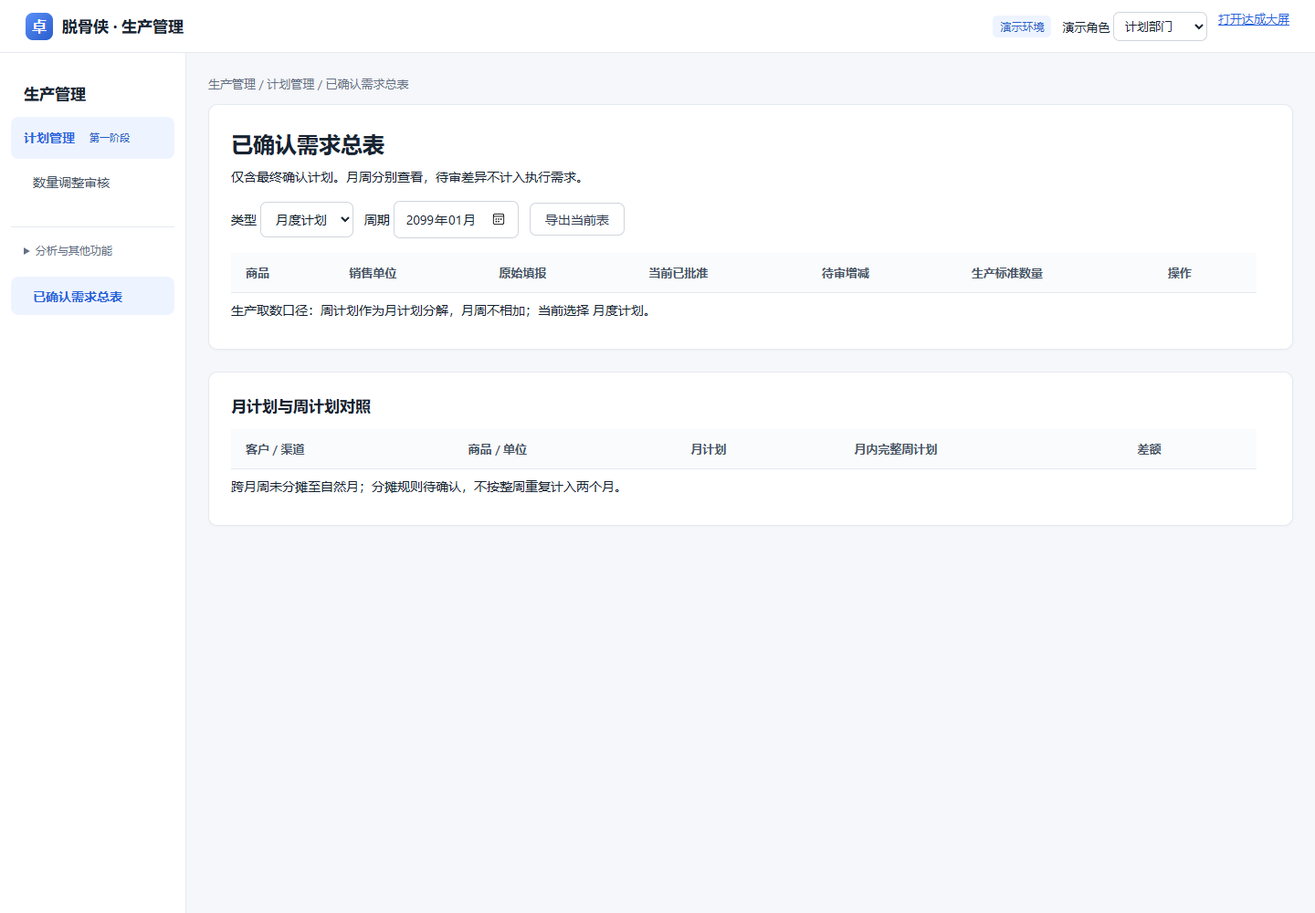
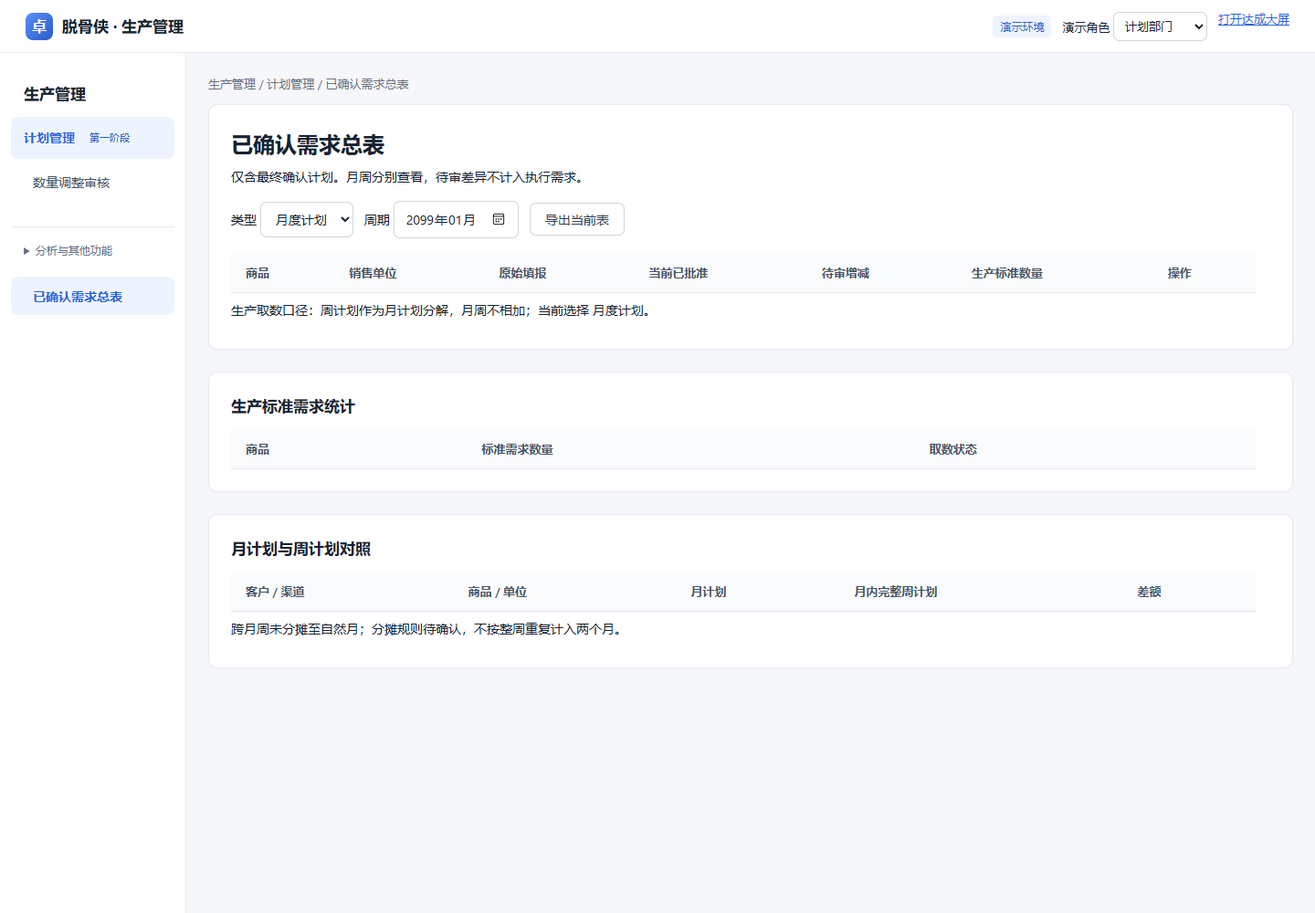
Auto sync 2026-10-12 14:07:03

diff --git a/09-设计与原型/销售计划管理/计划业务补充.js b/09-设计与原型/销售计划管理/计划业务补充.js
@@ -4,8 +4,9 @@
  const opt=(xs,val)=>xs.map(x=>`<option value="${E(x)}" ${x===val?'selected':''}>${E(x)}</option>`).join('');
  const today=()=>new Intl.DateTimeFormat('sv-SE',{timeZone:'Asia/Shanghai'}).format(new Date());
  function initialize(d){d.businessSettings??={relation:'pending',productionBasis:'month',adjustPolicy:'pending',reminderHours:24};d.periodWindows??={};d.noDemand??=[];d.notifications??=[];d.access??={};d.unitMappings??={};d.businessHistory??=[];}
+ function canView(d,role,p){const s=d.access?.[role];if(!s?.enabled)return true;return p.business==='online'?s.channels.includes(p.channel):s.centers.includes(p.center)&&s.provinces.includes(p.province)&&s.customers.includes(p.customer);}
  const snapshot=p=>Object.fromEntries(['center','area','province','customer','channel','business','kind','start','end','product','qty','unit','owner','note'].map(k=>[k,p[k]??'']));
- function periodState(d,kind,start){const w=d.periodWindows?.[kind+':'+start];if(!w)return '本期填报窗口待配置';return SalesPlan.windowState({...d,windows:{...d.windows,[kind]:w}},kind);}
+ function periodState(d,kind,start){const w=d.periodWindows?.[kind+':'+start];if(!w)return '本期填报窗口待配置';const n=Date.now(),open=new Date(w.open).getTime(),close=new Date(w.close).getTime();return n<open?'未开始':n>close?'已截止':close-n<=d.businessSettings.reminderHours*3600000?'即将截止':'可填报';}
  function fillGuard(d,role,p){initialize(d);const scope=d.access[role];if(scope?.enabled){if(p.business==='offline'&&(!scope.provinces.includes(p.province)||!scope.centers.includes(p.center)||!scope.customers.includes(p.customer)))return '当前演示人员不在该中心、省区或客户授权范围，请联系规则管理员。';if(p.business==='online'&&!scope.channels.includes(p.channel))return '该渠道不在授权范围。';}return '';}
  function floor(d,p){return Math.max(0,SalesPlan.linked(d,p).reduce((s,o)=>s+(o.status==='取消'?0:o.qty-o.returned),0));}
  function adjustGuard(d,p,after){initialize(d);const policy=d.businessSettings.adjustPolicy;if(policy==='pending')return '普通数量调整时限尚未配置，请由规则管理员确认规则后再申请。';if(p.archived)return '已归档计划不能调整。';if(policy==='beforeStart'&&p.start<=today())return '此规则仅允许执行开始前调整。';if(policy==='untilLocked'&&p.productionLocked)return '计划已锁定供生产使用，不能普通调整；请联系计划部门处理。';if(after<floor(d,p))return '调整后数量不能低于已执行净数量 '+floor(d,p)+' '+p.unit+'。';return '';}
@@ -17,7 +18,8 @@
  function parseLine(s){const out=[];let v='',quoted=false;for(let i=0;i<s.length;i++){const c=s[i];if(c==='"'){if(quoted&&s[i+1]==='"'){v+='"';i++;}else quoted=!quoted;}else if(!quoted&&(c===','||c==='\t')){out.push(v.trim());v='';}else v+=c;}if(quoted)throw Error('quote');out.push(v.trim());return out;}
  function reviewQuantity(a,change){const d=a.data(),p=d.plans.find(p=>p.id===change.plan);if(a.role()!=='计划部门'||change.status!=='待计划部门审核')return;const pending=d.adjustments.filter(v=>v.plan===p.id&&['待OA审批','待计划部门审核'].includes(v.status));a.modal('数量调整审核',`<div class="grid"><p>客户 / 渠道：${E(p.customer||p.channel)}</p><p>商品：${E(d.products.find(v=>v.id===p.product)?.name||p.product)}</p><p>组织：${E(p.center)} / ${E(p.area)} / ${E(p.province)}</p><p>周期：${p.start} 至 ${p.end}</p></div><div class="notice">原始填报 ${p.versions[0].qty} ${p.unit} · 已批准执行 ${p.qty} ${p.unit} · 本次待审 ${change.after} ${p.unit}<br>变化 ${change.after-change.before} ${p.unit}（${change.before?((change.after-change.before)/change.before*100).toFixed(1)+'%':'原数量为零'}） · 已执行净量 ${floor(d,p)} ${p.unit} · 待审申请 ${pending.length} 条</div><p>调整原因：${E(change.reason)}</p><p>附件：${E(change.attachment||'无附件')}</p><p>生产锁定：${p.productionLocked?'已锁定':'未锁定'}；库存与产能数据待接入，不据此自动判定可生产。</p><label class="field">审核意见<textarea id="opinion"></textarea></label><div class="error" id="quantityError" role="alert"></div><div class="actions"><button id="reject">驳回</button><button id="approve" class="primary">通过</button></div>`);const finish=pass=>{const opinion=document.getElementById('opinion').value.trim(),error=!opinion?'请填写审核意见。':pass?(p.version!==change.base?'原版本已变化，请重新申请。':adjustGuard(d,p,change.after)):'';document.getElementById('quantityError').textContent=error;if(error)return;const backup=structuredClone(d);change.status=pass?'已通过':'已驳回';change.opinion=opinion;change.reviewBy=a.role();change.reviewAt=new Date().toISOString();if(pass){const prior=p.versions.at(-1);prior.content??=snapshot(p);p.qty=change.after;p.version++;p.versions.push({version:p.version,qty:p.qty,content:snapshot(p),reason:change.reason});}a.log(p,'计划部门数量调整'+change.status,{opinion,qty:p.qty});if(!a.persist()){Object.assign(d,backup);return;}document.getElementById('dialog').close();a.render();};document.getElementById('approve').onclick=()=>finish(true);document.getElementById('reject').onclick=()=>finish(false);}
  function approved(d){return d.plans.filter(p=>!p.rejected&&p.stage>=SalesPlan.chain(p).length);}
- function demand(a){const d=a.data(),f=a.filters(),kind=f.kind,selected=approved(d).filter(p=>p.kind===kind&&(kind==='month'?p.start.slice(0,7)===f.cycle:p.start===f.cycle)),map=new Map();selected.forEach(p=>{const key=p.product+'|'+p.unit,g=map.get(key)||{product:p.product,unit:p.unit,original:0,qty:0,pending:0,plans:[]};g.original+=p.versions[0].qty;g.qty+=p.qty;g.pending+=d.adjustments.filter(v=>v.plan===p.id&&['待OA审批','待计划部门审核'].includes(v.status)).reduce((s,v)=>s+v.after-v.before,0);g.plans.push(p);map.set(key,g);});const content=document.getElementById('content');content.innerHTML=`<section class="card"><h1>已确认需求总表</h1><p>仅含最终确认计划。月周分别查看，待审差异不计入执行需求。</p><div class="row"><label>类型 <select id="demandKind"><option value="month">月度计划</option><option value="week">周计划</option></select></label><label>周期 <input id="demandCycle" type="${kind==='month'?'month':'date'}" value="${E(f.cycle)}"></label><button id="exportDemand">导出当前表</button></div><div class="table-wrap"><table><thead><tr><th>商品</th><th>销售单位</th><th>原始填报</th><th>当前已批准</th><th>待审增减</th><th>生产标准数量</th><th>操作</th></tr></thead><tbody>${[...map.values()].map((g,i)=>{const m=d.unitMappings[g.product],factor=m?.factors?.[g.unit],n=factor?g.qty*factor:null;return `<tr><td>${E(d.products.find(v=>v.id===g.product)?.name||g.product)}</td><td>${g.unit}</td><td>${g.original}</td><td>${g.qty}</td><td>${g.pending}</td><td>${n===null?'单位换算待配置':n+' '+E(m.baseUnit)}</td><td><button data-demand-detail="${i}">查看来源</button></td></tr>`;}).join('')}</tbody></table></div><p>生产取数口径：${d.businessSettings.relation==='pending'?'月周关系待确认，不生成合并生产需求':d.businessSettings.relation==='decomposition'?'周计划作为月计划分解，月周不相加':'独立预测；选定一种周期作为生产取数依据，禁止相加'}；当前选择 ${d.businessSettings.productionBasis==='month'?'月度':'周'}计划。</p></section><section class="card"><h2>月计划与周计划对照</h2>${comparison(d,selected)}</section>`;document.getElementById('demandKind').value=kind;document.getElementById('demandKind').onchange=e=>{f.kind=e.target.value;f.cycle=f.kind==='month'?today().slice(0,7):weekStart();a.render();};document.getElementById('demandCycle').onchange=e=>{f.cycle=e.target.value;a.render();};content.querySelectorAll('[data-demand-detail]').forEach(b=>b.onclick=()=>a.modal('需求来源明细',a.planTable([...map.values()][Number(b.dataset.demandDetail)].plans)));document.getElementById('exportDemand').onclick=()=>download('已确认需求总表.csv',[['商品','单位','原始填报','已批准','待审增减'],...[...map.values()].map(g=>[g.product,g.unit,g.original,g.qty,g.pending])]);}
+ function demand(a){const d=a.data(),f=a.filters(),kind=f.kind,selected=approved(d).filter(p=>canView(d,a.role(),p)&&p.kind===kind&&(kind==='month'?p.start.slice(0,7)===f.cycle:p.start===f.cycle)),map=new Map();selected.forEach(p=>{const key=p.product+'|'+p.unit,g=map.get(key)||{product:p.product,unit:p.unit,original:0,qty:0,pending:0,plans:[]};g.original+=p.versions[0].qty;g.qty+=p.qty;g.pending+=d.adjustments.filter(v=>v.plan===p.id&&['待OA审批','待计划部门审核'].includes(v.status)).reduce((s,v)=>s+v.after-v.before,0);g.plans.push(p);map.set(key,g);});const content=document.getElementById('content');content.innerHTML=`<section class="card"><h1>已确认需求总表</h1><p>仅含最终确认计划。月周分别查看，待审差异不计入执行需求。</p><div class="row"><label>类型 <select id="demandKind"><option value="month">月度计划</option><option value="week">周计划</option></select></label><label>周期 <input id="demandCycle" type="${kind==='month'?'month':'date'}" value="${E(f.cycle)}"></label><button id="exportDemand">导出当前表</button></div><div class="table-wrap"><table><thead><tr><th>商品</th><th>销售单位</th><th>原始填报</th><th>当前已批准</th><th>待审增减</th><th>生产标准数量</th><th>操作</th></tr></thead><tbody>${[...map.values()].map((g,i)=>{const m=d.unitMappings[g.product],factor=m?.factors?.[g.unit],n=factor?g.qty*factor:null;return `<tr><td>${E(d.products.find(v=>v.id===g.product)?.name||g.product)}</td><td>${g.unit}</td><td>${g.original}</td><td>${g.qty}</td><td>${g.pending}</td><td>${n===null?'单位换算待配置':n+' '+E(m.baseUnit)}</td><td><button data-demand-detail="${i}">查看来源</button></td></tr>`;}).join('')}</tbody></table></div><p>生产取数口径：${d.businessSettings.relation==='pending'?'月周关系待确认，不生成合并生产需求':d.businessSettings.relation==='decomposition'?'周计划作为月计划分解，月周不相加':'独立预测；选定一种周期作为生产取数依据，禁止相加'}；当前选择 ${d.businessSettings.productionBasis==='month'?'月度':'周'}计划。</p></section><section class="card"><h2>生产标准需求统计</h2>${standardDemand(d,selected,kind)}</section><section class="card"><h2>月计划与周计划对照</h2>${comparison(d,selected)}</section>`;document.getElementById('demandKind').value=kind;document.getElementById('demandKind').onchange=e=>{f.kind=e.target.value;f.cycle=f.kind==='month'?today().slice(0,7):weekStart();a.render();};document.getElementById('demandCycle').onchange=e=>{f.cycle=e.target.value;a.render();};content.querySelectorAll('[data-demand-detail]').forEach(b=>b.onclick=()=>a.modal('需求来源明细',a.planTable([...map.values()][Number(b.dataset.demandDetail)].plans)));document.getElementById('exportDemand').onclick=()=>download('已确认需求总表.csv',[['商品','单位','原始填报','已批准','待审增减'],...[...map.values()].map(g=>[g.product,g.unit,g.original,g.qty,g.pending])]);}
+ function standardDemand(d,selected,kind){const map=new Map();selected.forEach(p=>{const m=d.unitMappings[p.product],g=map.get(p.product)||{total:0,missing:false,base:m?.baseUnit};if(!m?.factors?.[p.unit])g.missing=true;else g.total+=p.qty*m.factors[p.unit];map.set(p.product,g);});return '<div class="table-wrap"><table><thead><tr><th>商品</th><th>标准需求数量</th><th>取数状态</th></tr></thead><tbody>'+[...map].map(([id,g])=>'<tr><td>'+E(d.products.find(p=>p.id===id)?.name||id)+'</td><td>'+(g.missing?'完整换算待配置':g.total+' '+E(g.base))+'</td><td>'+(d.businessSettings.relation==='pending'?'月周关系待确认':d.businessSettings.productionBasis!==kind?'当前非生产取数周期':'所选周期已确认需求')+'</td></tr>').join('')+'</tbody></table></div>';}
  function weekStart(){const n=new Date();n.setDate(n.getDate()-(n.getDay()+6)%7);return n.toLocaleDateString('sv-SE');}
  function comparison(d,selected){const months=approved(d).filter(p=>p.kind==='month'&&selected.some(x=>x.start.slice(0,7)===p.start.slice(0,7)));return `<div class="table-wrap"><table><thead><tr><th>客户 / 渠道</th><th>商品 / 单位</th><th>月计划</th><th>月内完整周计划</th><th>差额</th></tr></thead><tbody>${months.map(p=>{const ws=approved(d).filter(w=>w.kind==='week'&&w.business===p.business&&w.product===p.product&&w.unit===p.unit&&w.center===p.center&&w.area===p.area&&w.province===p.province&&w.customer===p.customer&&w.channel===p.channel&&w.start>=p.start&&w.end<=p.end),sum=ws.reduce((s,w)=>s+w.qty,0);return `<tr><td>${E(p.customer||p.channel)}</td><td>${E(p.product)} / ${p.unit}</td><td>${p.qty}</td><td>${ws.length?sum:'尚无周计划'}</td><td>${ws.length?p.qty-sum:'—'}</td></tr>`;}).join('')}</tbody></table></div><p>跨月周未分摊至自然月；分摊规则待确认，不按整周重复计入两个月。</p>`;}
  function download(name,rows){const csv='\ufeff'+rows.map(row=>row.map(v=>'"'+String(v).replaceAll('"','""')+'"').join(',')).join('\r\n'),url=URL.createObjectURL(new Blob([csv],{type:'text/csv;charset=utf-8'})),b=document.createElement('a');b.href=url;b.download=name;b.click();setTimeout(()=>URL.revokeObjectURL(url),1000);}
@@ -25,5 +27,5 @@
  function notifications(a){const d=a.data(),role=a.role(),list=d.notifications.filter(n=>n.to===role),content=document.getElementById('content'),stale=d.plans.filter(p=>!p.rejected&&SalesPlan.chain(p)[p.stage]===role&&p.history.length&&Date.now()-new Date(p.history.at(-1).at)>d.businessSettings.reminderHours*3600000);content.innerHTML=`<section class="card"><h1>我的通知与超时待办</h1><p>本机站内通知演示，不发送企业微信或邮件。超过 ${d.businessSettings.reminderHours} 小时提醒。</p>${stale.map(p=>`<p class="notice">${E(p.id)} 审核待办已超时。</p>`).join('')}<div class="table-wrap"><table><thead><tr><th>通知</th><th>内容</th><th>时间</th><th>状态</th></tr></thead><tbody>${list.map(n=>`<tr><td>${E(n.title)}</td><td>${E(n.text)}</td><td>${E(n.at)}</td><td><button data-read="${n.id}">${n.read?'已读':'标记已读'}</button></td></tr>`).join('')}</tbody></table></div></section>`;content.querySelectorAll('[data-read]').forEach(b=>b.onclick=()=>{const n=d.notifications.find(n=>n.id===b.dataset.read);n.read=true;if(a.persist())a.render();});}
  function config(a){const d=a.data(),admin=a.role()==='规则管理员',s=d.businessSettings,content=document.getElementById('content');content.innerHTML=`<section class="card"><h1>业务规则与人员范围</h1><p>配置仅用于本机原型演示。正式系统需服务端鉴权与事务；换算值必须来自真实商品包装资料。</p><form id="businessConfig"><div class="grid"><label class="field">月周关系<select name="relation"><option value="pending">待确认</option><option value="decomposition">周计划是月计划分解</option><option value="independent">月周独立预测</option></select></label><label class="field">生产需求取数<select name="productionBasis"><option value="month">采用月计划</option><option value="week">采用周计划</option></select></label><label class="field">数量调整时限<select name="adjustPolicy"><option value="pending">待确认，暂停普通调整</option><option value="beforeStart">仅执行开始前</option><option value="untilLocked">生产锁定前允许</option><option value="untilArchive">归档前允许（仍不得低于已执行量）</option></select></label><label class="field">待办提醒小时<input name="reminderHours" type="number" min="1" value="${s.reminderHours}"></label></div><h3>本期填报窗口</h3><div class="grid"><label class="field">计划类型<select name="periodKind"><option value="month">月度</option><option value="week">周</option></select></label><label class="field">计划开始日期<input name="periodStart" type="date"></label><label class="field">开放时间（北京时间）<input name="windowOpen" type="datetime-local"></label><label class="field">截止时间（北京时间）<input name="windowClose" type="datetime-local"></label></div><h3>商品单位换算</h3><div class="grid"><label class="field">商品<select name="mappingProduct">${opt(d.products.map(p=>p.id),'')}</select></label><label class="field">生产标准单位<input name="baseUnit" placeholder="例如袋或千克"></label><label class="field">销售单位<select name="salesUnit">${opt(['箱','包','袋','盒','罐','支'],'箱')}</select></label><label class="field">1销售单位对应标准数量<input name="factor" type="number" min="0.000001" step="any"></label></div><h3>人员演示权限</h3><div class="grid"><label class="field">角色<select name="accessRole">${opt(['省区填报','线上运营','大区审核','中心审核','严总','计划部门'],'省区填报')}</select></label><label class="check"><input name="scopeEnabled" type="checkbox">启用本角色范围限制</label><label class="field">允许中心（逗号分隔）<input name="scopeCenters" placeholder="休食中心,大客中心"></label><label class="field">允许省区（逗号分隔）<input name="scopeProvinces" placeholder="上海,江苏"></label><label class="field">允许客户（逗号分隔）<input name="scopeCustomers" placeholder="永辉华东大区"></label><label class="field">允许渠道（逗号分隔）<input name="scopeChannels" placeholder="天猫,京东"></label></div><div class="error" id="configError" role="alert"></div><div class="actions"><button ${admin?'':'disabled'}>保存配置</button></div></form><h3>已配置周期与变更记录</h3>${Object.entries(d.periodWindows).map(([k,w])=>`<p>${E(k)} · ${E(w.open)} 至 ${E(w.close)}</p>`).join('')||'<p>尚未配置本期窗口</p>'}${d.businessHistory.slice(-5).map(h=>`<p>${E(h.at)} · ${E(h.by)} · ${E(h.action)}</p>`).join('')}</section>`;const f=document.getElementById('businessConfig');for(const k of ['relation','productionBasis','adjustPolicy'])f[k].value=s[k];f.accessRole.onchange=()=>{const scope=d.access[f.accessRole.value];f.scopeEnabled.checked=!!scope?.enabled;for(const [field,key] of [['scopeCenters','centers'],['scopeProvinces','provinces'],['scopeCustomers','customers'],['scopeChannels','channels']])f[field].value=scope?.[key]?.join(',')||'';};f.accessRole.onchange();f.onsubmit=e=>{e.preventDefault();if(!admin)return;let err='';const hasPeriod=!!(f.periodStart.value||f.windowOpen.value||f.windowClose.value);if(hasPeriod&&(!f.periodStart.value||!f.windowOpen.value||!f.windowClose.value||f.windowOpen.value>=f.windowClose.value))err='请填写完整本期窗口，截止必须晚于开放。';if(hasPeriod&&(f.periodKind.value==='month'&&!f.periodStart.value.endsWith('-01')||f.periodKind.value==='week'&&new Date(f.periodStart.value+'T12:00:00').getDay()!==1))err='月周期开始必须为1日，周周期开始必须为周一。';if(f.factor.value&&(!f.baseUnit.value.trim()||Number(f.factor.value)<=0))err='换算必须有标准单位及正数系数。';if(Number(f.reminderHours.value)<1)err='提醒小时必须大于零。';document.getElementById('configError').textContent=err;if(err)return;const before=structuredClone({settings:d.businessSettings,windows:d.periodWindows,mappings:d.unitMappings,access:d.access});d.businessSettings={relation:f.relation.value,productionBasis:f.productionBasis.value,adjustPolicy:f.adjustPolicy.value,reminderHours:Number(f.reminderHours.value)};if(hasPeriod)d.periodWindows[f.periodKind.value+':'+f.periodStart.value]={open:f.windowOpen.value+':00+08:00',close:f.windowClose.value+':00+08:00'};if(f.factor.value){const p=f.mappingProduct.value,m=d.unitMappings[p]||{baseUnit:f.baseUnit.value.trim(),factors:{}};if(m.baseUnit!==f.baseUnit.value.trim()){document.getElementById('configError').textContent='该商品已存在另一标准单位，不能直接覆盖；请先核对包装换算。';d.businessSettings=before.settings;d.periodWindows=before.windows;return;}m.factors[f.salesUnit.value]=Number(f.factor.value);m.factors[m.baseUnit]=1;d.unitMappings[p]=m;}const split=v=>v.split(/[,，]/).map(s=>s.trim()).filter(Boolean);d.access[f.accessRole.value]={enabled:f.scopeEnabled.checked,centers:split(f.scopeCenters.value),provinces:split(f.scopeProvinces.value),customers:split(f.scopeCustomers.value),channels:split(f.scopeChannels.value)};d.businessHistory.push({at:new Date().toISOString(),by:a.role(),action:'更新业务配置',before,after:structuredClone({settings:d.businessSettings,windows:d.periodWindows,mappings:d.unitMappings,access:d.access})});if(a.persist()){a.render();a.message('业务配置已保存。');}};}
  function decorate(a){const d=a.data();initialize(d);if(document.body.dataset.page==='screen')return;const role=a.role(),view=a.view(),nav=document.querySelector('nav'),more=nav.querySelector('.nav-more')||nav;for(const [name,key] of [['已确认需求总表','demand'],['填报进度','progress'],['通知与待办','notifications'],['业务规则与权限','businessRules']]){if(key==='progress'&&role!=='省区填报'||key==='businessRules'&&role!=='规则管理员'||key==='demand'&&!['计划部门','严总','中心审核'].includes(role))continue;const b=document.createElement('button');b.textContent=name;b.setAttribute('aria-current',String(view===key));b.onclick=()=>a.setView(key);(key==='notifications'?more:nav).append(b);}if(view==='demand')demand(a);if(view==='progress')progress(a);if(view==='notifications')notifications(a);if(view==='businessRules')config(a);document.querySelectorAll('[data-action=detail]').forEach(b=>{const p=d.plans.find(p=>p.id===b.dataset.id);if(!p||!editable(a,p))return;const btn=document.createElement('button');btn.textContent=p.rejected?'修改后重提':'继续编辑';btn.onclick=()=>SalesUX.batch(a,{edit:p});b.closest('td')?.append(btn);});if(role==='计划部门'&&view==='demand'){document.querySelectorAll('[data-demand-detail]').forEach(b=>b.addEventListener('click',()=>{const dialog=document.getElementById('dialog');dialog.querySelectorAll('[data-action=detail]').forEach(btn=>{const p=d.plans.find(p=>p.id===btn.dataset.id),lock=document.createElement('button');lock.textContent=p.productionLocked?'解除生产锁定':'锁定供生产使用';lock.onclick=()=>{p.productionLocked=!p.productionLocked;a.log(p,p.productionLocked?'生产取数锁定':'解除生产锁定');if(a.persist()){dialog.close();a.render();}};btn.closest('td').append(lock);});}));}}
- window.PlanBusiness={initialize,snapshot,periodState,fillGuard,adjustGuard,notify,onLog,enhanceBatch,reviewQuantity,decorate};
+ window.PlanBusiness={initialize,snapshot,periodState,fillGuard,canView,adjustGuard,notify,onLog,enhanceBatch,reviewQuantity,decorate};
 })();

diff --git a/09-设计与原型/销售计划管理/销售计划体验.js b/09-设计与原型/销售计划管理/销售计划体验.js
@@ -30,7 +30,7 @@
   document.getElementById('addLine').onclick=()=>{x.lines.push({product:d.products.find(effective)?.id||'',qty:'',unit:'袋'});store();drawLines();};
   document.getElementById('copyPrevious').onclick=()=>{sync();const candidates=d.plans.filter(p=>p.business===business&&p.kind===x.kind&&p.end<x.start&&(business==='online'?p.channel===x.channel:p.center===x.center&&p.area===x.area&&p.province===x.province&&p.customer===x.customer));const end=candidates.map(p=>p.end).sort().at(-1),list=candidates.filter(p=>p.end===end&&d.products.find(v=>v.id===p.product&&effective(v)));if(!list.length)return a.message('当前组织与周期没有可复制的上期计划。');const unique=new Map(list.map(p=>[p.product+':'+p.unit,{product:p.product,qty:p.qty,unit:p.unit}]));for(const l of unique.values()){const existing=x.lines.find(v=>v.product===l.product&&v.unit===l.unit);if(!existing)x.lines.push(l);else if(!existing.qty)existing.qty=l.qty;}store();drawLines();a.message('已追加上期有效商品与数量，请核对后提交。');};
   document.getElementById('historyRefresh').onclick=()=>{sync();const mode=document.getElementById('historyRange').value;if(mode==='custom'){range={from:document.getElementById('historyFrom').value,to:document.getElementById('historyTo').value};}else{const start=new Date(x.start+'T12:00:00'),from=new Date(start);if(business==='online'&&x.kind==='week')from.setDate(from.getDate()-7*Number(mode));else from.setMonth(from.getMonth()-Number(mode));start.setDate(start.getDate()-1);range={from:from.toLocaleDateString('sv-SE'),to:start.toLocaleDateString('sv-SE')};document.getElementById('historyFrom').value=range.from;document.getElementById('historyTo').value=range.to;}if(!range.from||!range.to||range.from>range.to)return a.message('请选择有效参考区间。');document.getElementById('historyMeta').textContent=`${business==='online'?'旺店通':'OMS'} · ${range.from} 至 ${range.to} · 演示订单，仅供交互参考；真实同步时间待接入`;drawLines();};
-  function save(submit){sync();document.querySelectorAll('.line-error').forEach(e=>e.textContent='');let err='';if(!x.start||!x.end||x.start>x.end)err='请填写有效的计划日期区间。';else if(x.kind==='month'&&(x.start.slice(0,7)!==x.end.slice(0,7)||!x.start.endsWith('-01')||new Date(x.end+'T12:00:00').getDate()!==new Date(Number(x.start.slice(0,4)),Number(x.start.slice(5,7)),0).getDate()))err='月计划必须选择完整自然月。';else if(x.kind==='week'&&(new Date(x.start+'T12:00:00').getDay()!==1||(new Date(x.end)-new Date(x.start))/86400000!==6))err='周计划必须选择周一至周日。';if(submit&&!['可填报','即将截止'].includes(PlanBusiness.periodState(d,x.kind,x.start)))err='当前不允许提交：'+PlanBusiness.periodState(d,x.kind,x.start)+'。可以保存草稿。';if(business==='offline'&&!x.customer)err='该省区尚未维护客户，请选择已维护客户的省区。';let bad=false;x.lines.forEach((l,i)=>{let why='';if(business==='offline'&&!SalesPlan.customers.some(c=>c.province===x.province&&c.name===(l.customer||x.customer)))why='请选择本省区有效客户。';else if(!d.products.some(p=>p.id===l.product&&effective(p)))why='请重新选择有效商品。';else if(!Number.isInteger(Number(l.qty))||Number(l.qty)<=0)why='数量必须为正整数。';else if(x.lines.some((v,j)=>j<i&&v.product===l.product&&v.unit===l.unit&&(v.customer||x.customer)===(l.customer||x.customer)))why='本次商品和单位重复，请合并数量。';else if(d.plans.some(p=>p.id!==editing?.id&&!p.rejected&&p.kind===x.kind&&p.business===business&&p.product===l.product&&p.unit===l.unit&&p.start<=x.end&&p.end>=x.start&&(business==='online'?p.channel===x.channel:p.center===x.center&&p.area===x.area&&p.province===x.province&&p.customer===(l.customer||x.customer))))why='此周期已有同维度计划，请从原计划发起调整。';if(why){bad=true;const e=document.getElementById('lineError'+i);e.textContent=why;e.previousElementSibling?.focus();}});document.getElementById('batchError').textContent=err|| (bad?'请修正商品行的错误。':'');if(err||bad){const target=err?f.start:document.querySelector('.line-error:not(:empty)');target?.scrollIntoView({block:'center'});if(target?.focus)target.focus();return;}if(editing&&x.lines.length!==1){document.getElementById('batchError').textContent='编辑原计划时只保留原明细一行；多客户请新增批量计划。';return;}if(submit){const gate=PlanBusiness.fillGuard(d,role,{...x,business,customer:x.customer});if(gate){document.getElementById('batchError').textContent=gate;return;}}const before=structuredClone(d.plans),batchId='B'+Date.now();x.lines.forEach((l,i)=>{const p={...x,...l,lines:undefined,qty:Number(l.qty),id:batchId+'-'+(i+1),batchId,owner:business==='online'?'线上运营':SalesPlan.owners[x.province]||'待分配负责人',stage:submit?0:-1,version:1,rejected:false,archived:false,history:[],versions:[{version:1,qty:Number(l.qty),reason:'原始计划'}],customer:business==='offline'?(l.customer||x.customer):'',business};if(editing){const original=structuredClone(editing);const wasRejected=editing.rejected;Object.assign(editing,p,{id:original.id,history:original.history,versions:original.versions,version:original.version,rejected:false});if(wasRejected){editing.version++;editing.versions.push({version:editing.version,qty:editing.qty,reason:'驳回后修改',content:PlanBusiness.snapshot(editing)});}a.log(editing,submit?'修改后重新提交':'编辑草稿',{beforeContent:PlanBusiness.snapshot(original),afterContent:PlanBusiness.snapshot(editing)});}else{a.log(p,submit?'批量提交计划':'批量保存草稿');d.plans.push(p);}});if(!a.persist()){d.plans=before;return;}localStorage.removeItem(key);dirty=false;el.close();a.render();a.message(`已${submit?'提交':'保存'} ${x.lines.length} 条商品计划，批次 ${batchId}。`);}
+  function save(submit){sync();document.querySelectorAll('.line-error').forEach(e=>e.textContent='');let err='';if(!x.start||!x.end||x.start>x.end)err='请填写有效的计划日期区间。';else if(x.kind==='month'&&(x.start.slice(0,7)!==x.end.slice(0,7)||!x.start.endsWith('-01')||new Date(x.end+'T12:00:00').getDate()!==new Date(Number(x.start.slice(0,4)),Number(x.start.slice(5,7)),0).getDate()))err='月计划必须选择完整自然月。';else if(x.kind==='week'&&(new Date(x.start+'T12:00:00').getDay()!==1||(new Date(x.end)-new Date(x.start))/86400000!==6))err='周计划必须选择周一至周日。';if(submit&&!['可填报','即将截止'].includes(PlanBusiness.periodState(d,x.kind,x.start)))err='当前不允许提交：'+PlanBusiness.periodState(d,x.kind,x.start)+'。可以保存草稿。';if(business==='offline'&&!x.customer)err='该省区尚未维护客户，请选择已维护客户的省区。';let bad=false;x.lines.forEach((l,i)=>{let why='';if(PlanBusiness.fillGuard(d,role,{...x,business,customer:l.customer||x.customer}))why='该行客户或组织不在授权范围。';else if(business==='offline'&&!SalesPlan.customers.some(c=>c.province===x.province&&c.name===(l.customer||x.customer)))why='请选择本省区有效客户。';else if(!d.products.some(p=>p.id===l.product&&effective(p)))why='请重新选择有效商品。';else if(!Number.isInteger(Number(l.qty))||Number(l.qty)<=0)why='数量必须为正整数。';else if(x.lines.some((v,j)=>j<i&&v.product===l.product&&v.unit===l.unit&&(v.customer||x.customer)===(l.customer||x.customer)))why='本次商品和单位重复，请合并数量。';else if(d.plans.some(p=>p.id!==editing?.id&&!p.rejected&&p.kind===x.kind&&p.business===business&&p.product===l.product&&p.unit===l.unit&&p.start<=x.end&&p.end>=x.start&&(business==='online'?p.channel===x.channel:p.center===x.center&&p.area===x.area&&p.province===x.province&&p.customer===(l.customer||x.customer))))why='此周期已有同维度计划，请从原计划发起调整。';if(why){bad=true;const e=document.getElementById('lineError'+i);e.textContent=why;e.previousElementSibling?.focus();}});document.getElementById('batchError').textContent=err|| (bad?'请修正商品行的错误。':'');if(err||bad){const target=err?f.start:document.querySelector('.line-error:not(:empty)');target?.scrollIntoView({block:'center'});if(target?.focus)target.focus();return;}if(editing&&x.lines.length!==1){document.getElementById('batchError').textContent='编辑原计划时只保留原明细一行；多客户请新增批量计划。';return;}if(submit){const gate=PlanBusiness.fillGuard(d,role,{...x,business,customer:x.customer});if(gate){document.getElementById('batchError').textContent=gate;return;}}const before=structuredClone(d.plans),batchId='B'+Date.now();x.lines.forEach((l,i)=>{const p={...x,...l,lines:undefined,qty:Number(l.qty),id:batchId+'-'+(i+1),batchId,owner:business==='online'?'线上运营':SalesPlan.owners[x.province]||'待分配负责人',stage:submit?0:-1,version:1,rejected:false,archived:false,history:[],versions:[{version:1,qty:Number(l.qty),reason:'原始计划'}],customer:business==='offline'?(l.customer||x.customer):'',business};if(editing){const original=structuredClone(editing);const wasRejected=editing.rejected;Object.assign(editing,p,{id:original.id,history:original.history,versions:original.versions,version:original.version,rejected:false});if(wasRejected){editing.version++;editing.versions.push({version:editing.version,qty:editing.qty,reason:'驳回后修改',content:PlanBusiness.snapshot(editing)});}a.log(editing,submit?'修改后重新提交':'编辑草稿',{beforeContent:PlanBusiness.snapshot(original),afterContent:PlanBusiness.snapshot(editing)});}else{a.log(p,submit?'批量提交计划':'批量保存草稿');d.plans.push(p);}});if(!a.persist()){d.plans=before;return;}localStorage.removeItem(key);dirty=false;el.close();a.render();a.message(`已${submit?'提交':'保存'} ${x.lines.length} 条商品计划，批次 ${batchId}。`);}
   PlanBusiness.enhanceBatch(a,f,x,{store,drawLines,sync,editing});f.onsubmit=e=>{e.preventDefault();save(true);};document.getElementById('batchDraft').onclick=()=>save(false);closeGuard(el,()=>dirty);
  }
  function windowText(d,k){const state=SalesPlan.windowState(d,k),w=d.windows[k];if(!w.open||!w.close)return state+' · 请联系规则管理员配置';const left=new Date(w.close)-Date.now();return `${state} · 截止 ${w.close.replace('T',' ')}${left>0?' · 剩余 '+Math.floor(left/86400000)+'天'+Math.floor(left%86400000/3600000)+'小时':''}`;}

diff --git a/09-设计与原型/销售计划管理/计划开始前调整.js b/09-设计与原型/销售计划管理/计划开始前调整.js
@@ -23,7 +23,7 @@
   function open(api,p){const d=api.data(),role=api.role();if(!eligible(p)||role!==(p.business==='online'?'线上运营':'省区填报'))return api.message('仅填报人员可在计划开始前申请内容调整。');if(pending(d,p))return api.message('该计划已有待审批调整，请先处理完毕。');const before=snapshot(p),items=d.products.filter(v=>v.enabled&&(v.scope==='全部'||v.scope===(p.business==='online'?'线上':'线下'))),opt=(list,val)=>list.map(v=>`<option value="${E(v)}" ${v===val?'selected':''}>${E(v)}</option>`).join('');api.modal('计划开始前调整 '+p.id,`<p>月计划、周计划在执行开始前可调整内容，原计划在审批期间保持生效。仅修改数量由计划部门审核，不走 OA；其他内容调整沿用分级审批。</p><form id="preChangeForm"><div class="grid"><label class="field">开始日期<input type="date" name="start" value="${p.start}" required></label><label class="field">结束日期<input type="date" name="end" value="${p.end}" required></label><label class="field">商品<select name="product">${items.map(v=>`<option value="${v.id}" ${v.id===p.product?'selected':''}>${E(v.name)}</option>`).join('')}</select></label><label class="field">数量<input type="number" name="qty" min="1" step="1" value="${p.qty}" required></label><label class="field">单位<select name="unit">${opt(['箱','包','袋','盒','罐','支'],p.unit)}</select></label>${p.business==='online'?`<label class="field">渠道<select name="channel">${opt(SalesPlan.channels,p.channel)}</select></label>`:p.business==='offline'?`<label class="field">客户<select name="customer">${opt(SalesPlan.customers.filter(c=>c.province===p.province).map(c=>c.name),p.customer)}</select></label>`:''}<label class="field full">计划说明<textarea name="note">${E(p.note)}</textarea></label><label class="field full">调整原因<textarea name="reason" required></textarea></label></div><h3>变更前后对比</h3><div id="changeDiff"></div><div class="error" id="preChangeError" role="alert"></div><div class="actions"><button class="primary" type="submit">提交调整审批</button></div></form>`);
     const f=document.getElementById('preChangeForm'),proposal=()=>({...before,...Object.fromEntries(new FormData(f)),qty:Number(f.qty.value)});const preview=()=>document.getElementById('changeDiff').innerHTML='<div class="table-wrap"><table><thead><tr><th>字段</th><th>原计划</th><th>申请调整</th></tr></thead><tbody>'+diff({beforeContent:before,afterContent:proposal()},d)+'</tbody></table></div>';f.addEventListener('input',preview);preview();f.onsubmit=e=>{e.preventDefault();const x=proposal(),reason=f.reason.value.trim(),error=validate(d,p,x)||(!reason?'请填写调整原因。':'')||(!Object.keys(names).some(k=>x[k]!==before[k])?'没有内容变更，请修改后再提交。':'')||(pending(d,p)?'已有待审批调整，请勿重复提交。':'');document.getElementById('preChangeError').textContent=error;if(error)return;delete x.reason;const quantityOnly=Object.keys(names).filter(k=>x[k]!==before[k]).every(k=>k==='qty'),route=quantityOnly?['计划部门']:SalesPlan.chain(p),a={id:'C'+Date.now(),plan:p.id,base:p.version,baseStage:p.stage,baseRejected:p.rejected,type:'before-start',before:p.qty,after:x.qty,beforeContent:before,afterContent:x,reason,approver:route[0],route,stage:0,approvals:[],at:new Date().toISOString(),status:quantityOnly?'待计划部门审核':'待OA审批'};d.adjustments.push(a);api.log(p,'申请计划开始前内容调整',{adjustment:a.id,beforeContent:before,afterContent:x,reason});if(api.persist()){document.getElementById('dialog').close();api.render();api.message(quantityOnly?'已提交计划部门审核，不走 OA；原计划保持不变。':'已提交内容调整审批，原计划暂不变更。');}};
   }
-  function approve(api,a){const d=api.data(),role=api.role(),p=d.plans.find(p=>p.id===a.plan);if(!['待OA审批','待计划部门审核'].includes(a.status)||a.approver!==role)return;api.modal('计划内容调整审批 '+a.plan,`<p>${a.route.map((r,i)=>`${E(r)}${i<a.stage?'（通过）':i===a.stage?'（当前）':''}`).join(' → ')}</p><p>原因：${E(a.reason)}</p><div class="table-wrap"><table><thead><tr><th>字段</th><th>原计划</th><th>申请调整</th></tr></thead><tbody>${diff(a,d)}</tbody></table></div><label class="field">审批意见<textarea id="changeOpinion"></textarea></label><div class="error" id="changeReviewError" role="alert"></div><div class="actions"><button id="changeReject">驳回调整</button><button class="primary" id="changeApprove">通过调整</button></div>`);const finish=pass=>{const opinion=document.getElementById('changeOpinion').value.trim();let error=!opinion?'请填写审批意见。':'';if(pass)error=error||(p.version!==a.base||p.stage!==a.baseStage||p.rejected!==a.baseRejected?'原计划版本或审核状态已变化，请重新发起调整。':'')||validate(d,p,a.afterContent);document.getElementById('changeReviewError').textContent=error;if(error)return;a.approvals.push({by:role,at:new Date().toISOString(),result:pass?'通过':'驳回',opinion});a.opinion=opinion;if(!pass){a.status='已驳回';a.reviewAt=new Date().toISOString();}else if(a.stage<a.route.length-1){a.stage++;a.approver=a.route[a.stage];}else{if(!p.versions[p.versions.length-1].content)p.versions[p.versions.length-1].content=structuredClone(a.beforeContent);Object.assign(p,a.afterContent);p.version++;if(a.route[0]!=='计划部门'){p.stage=SalesPlan.chain(p).length;p.rejected=false;}p.versions.push({version:p.version,qty:p.qty,reason:a.reason,content:structuredClone(a.afterContent),adjustment:a.id});a.status='已通过';a.reviewAt=new Date().toISOString();}api.log(p,'计划开始前调整审批'+(pass?'通过':'驳回'),{adjustment:a.id,opinion,qty:p.qty});if(api.persist()){document.getElementById('dialog').close();api.render();api.message(a.status==='已通过'?'已生成新版本，保留原计划和全部审批记录。':a.status==='已驳回'?'已驳回，原计划内容不变。':'已通过本级，等待 '+a.approver+' 审批。');}};document.getElementById('changeApprove').onclick=()=>finish(true);document.getElementById('changeReject').onclick=()=>finish(false);}
+  function approve(api,a){const d=api.data(),role=api.role(),p=d.plans.find(p=>p.id===a.plan);if(!['待OA审批','待计划部门审核'].includes(a.status)||a.approver!==role)return;api.modal('计划内容调整审批 '+a.plan,`<p>${a.route.map((r,i)=>`${E(r)}${i<a.stage?'（通过）':i===a.stage?'（当前）':''}`).join(' → ')}</p><p>原因：${E(a.reason)}</p><div class="table-wrap"><table><thead><tr><th>字段</th><th>原计划</th><th>申请调整</th></tr></thead><tbody>${diff(a,d)}</tbody></table></div><label class="field">审批意见<textarea id="changeOpinion"></textarea></label><div class="error" id="changeReviewError" role="alert"></div><div class="actions"><button id="changeReject">驳回调整</button><button class="primary" id="changeApprove">通过调整</button></div>`);const finish=pass=>{const opinion=document.getElementById('changeOpinion').value.trim();let error=!opinion?'请填写审批意见。':'';if(pass)error=error||(a.route[0]==='计划部门'?PlanBusiness.adjustGuard(d,p,a.afterContent.qty):'')||(p.version!==a.base||p.stage!==a.baseStage||p.rejected!==a.baseRejected?'原计划版本或审核状态已变化，请重新发起调整。':'')||validate(d,p,a.afterContent);document.getElementById('changeReviewError').textContent=error;if(error)return;a.approvals.push({by:role,at:new Date().toISOString(),result:pass?'通过':'驳回',opinion});a.opinion=opinion;if(!pass){a.status='已驳回';a.reviewAt=new Date().toISOString();}else if(a.stage<a.route.length-1){a.stage++;a.approver=a.route[a.stage];}else{if(!p.versions[p.versions.length-1].content)p.versions[p.versions.length-1].content=structuredClone(a.beforeContent);Object.assign(p,a.afterContent);p.version++;if(a.route[0]!=='计划部门'){p.stage=SalesPlan.chain(p).length;p.rejected=false;}p.versions.push({version:p.version,qty:p.qty,reason:a.reason,content:structuredClone(a.afterContent),adjustment:a.id});a.status='已通过';a.reviewAt=new Date().toISOString();}api.log(p,'计划开始前调整审批'+(pass?'通过':'驳回'),{adjustment:a.id,opinion,qty:p.qty});if(api.persist()){document.getElementById('dialog').close();api.render();api.message(a.status==='已通过'?'已生成新版本，保留原计划和全部审批记录。':a.status==='已驳回'?'已驳回，原计划内容不变。':'已通过本级，等待 '+a.approver+' 审批。');}};document.getElementById('changeApprove').onclick=()=>finish(true);document.getElementById('changeReject').onclick=()=>finish(false);}
   function decorate(api){const d=api.data(),role=api.role();if(document.body.dataset.page==='screen')return;document.querySelectorAll('[data-action=detail]').forEach(b=>{const p=d.plans.find(p=>p.id===b.dataset.id),cell=b.closest('td');if(!p||!cell||!eligible(p)||role!==(p.business==='online'?'线上运营':'省区填报'))return;const button=document.createElement('button');button.textContent='开始前调整';button.type='button';button.disabled=pending(d,p);button.title=button.disabled?'已有调整正在审批':'修改计划内容并重新审批';button.onclick=()=>open(api,p);cell.append(button);});}
   window.PlanChange={eligible,pending,open,approve,decorate,diff};
 })();
